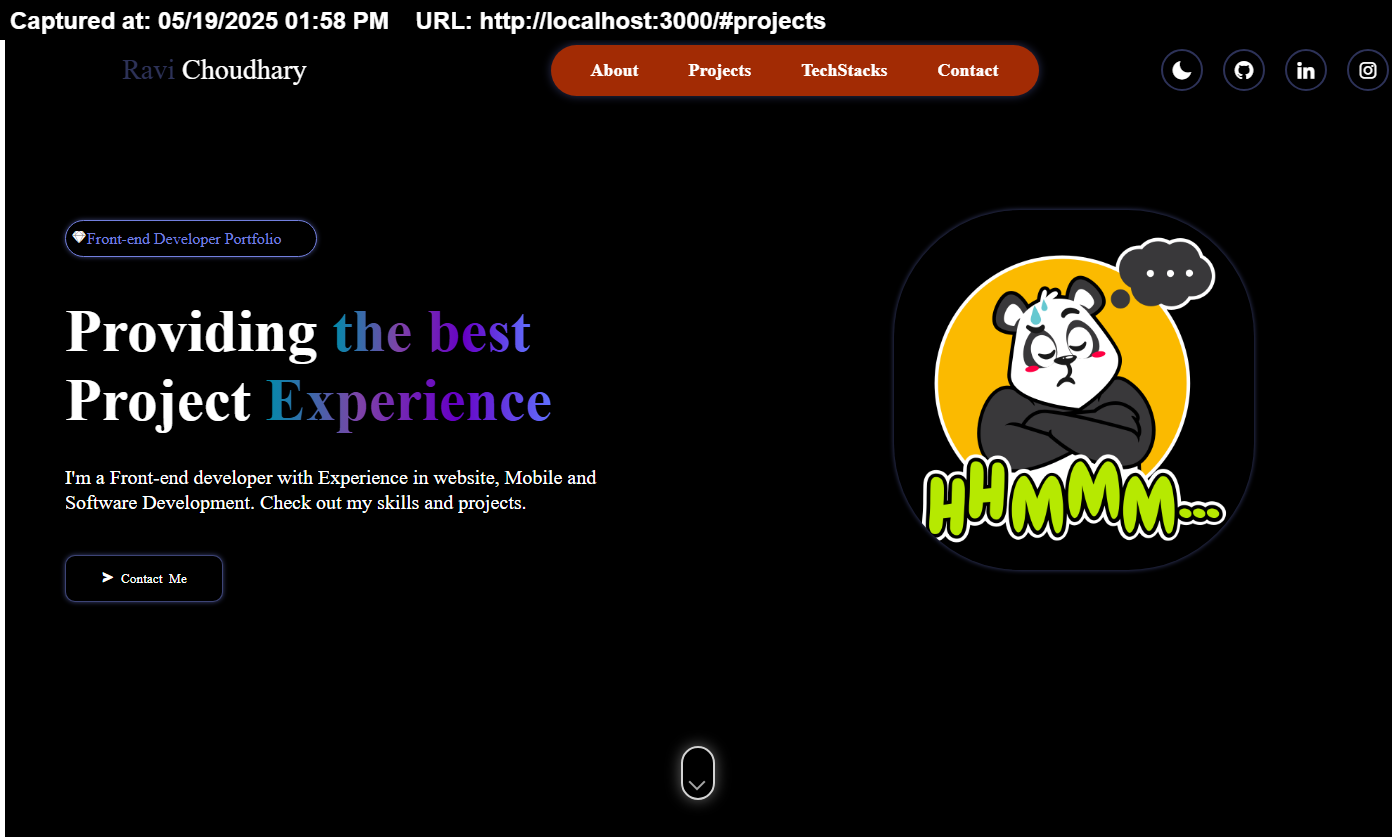
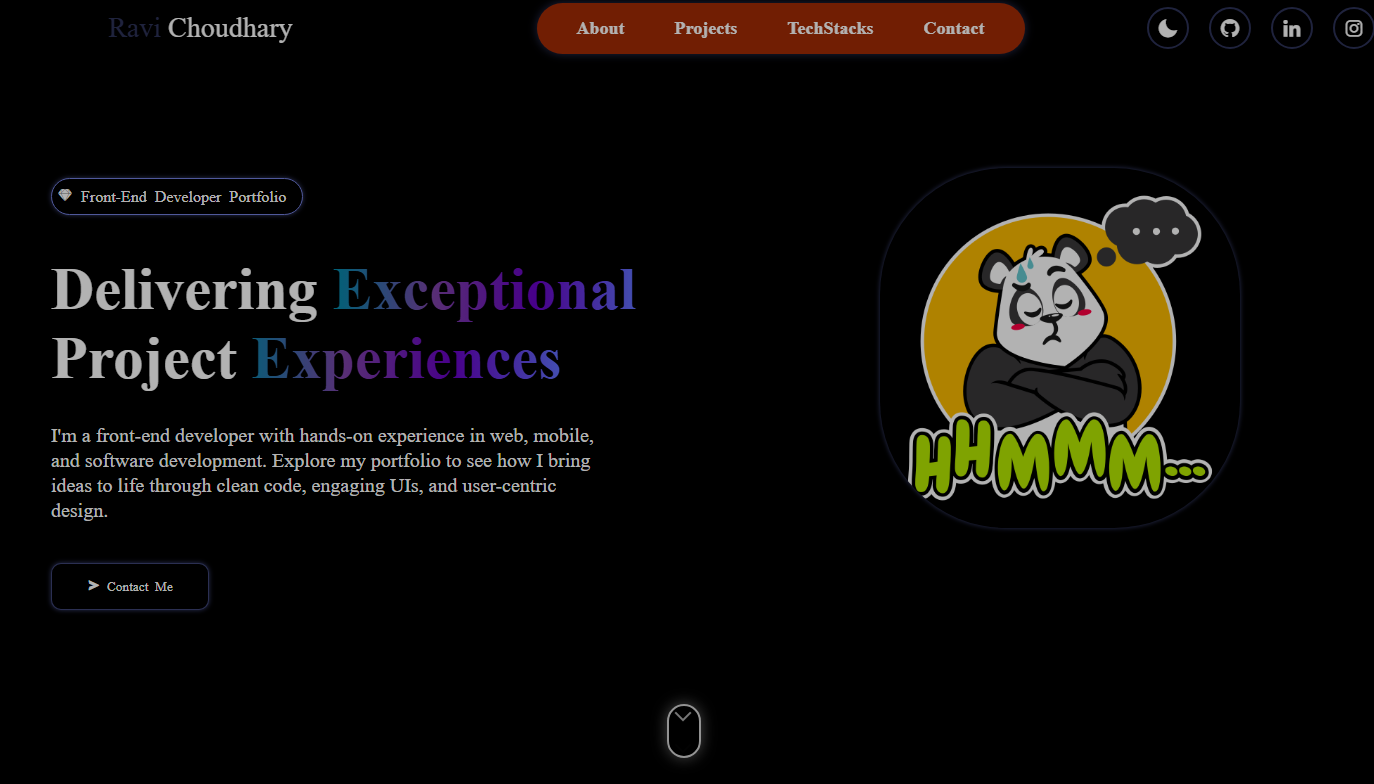
Update Home section

diff --git a/src/pages/Home.jsx b/src/pages/Home.jsx
@@ -1,27 +1,40 @@
-import '../styles/Home.css'
-import thinkingBubble from '../assets/thinking-bubble.png';
-import 'boxicons/css/boxicons.min.css';
+import "../styles/Home.css";
+import thinkingBubble from "../assets/thinking-bubble.png";
+import "boxicons/css/boxicons.min.css";
 
-function Home(){
-    return(
-        <div id="home">
-            <div className="info">
-               <div className="info-title">
-                 <i className='bx bxl-sketch'></i> 
-                 Front-end Developer Portfolio
-               </div>
-               <h1>Providing <span className="gradient">the best</span> Project <span className="gradient">Experience</span></h1>
-               <p>I'm a Front-end developer with Experience in website, Mobile and Software Development. Check out my skills and projects. </p>
-               <button><i className='bx bxs-send'> Contact Me</i></button>
-            </div>
-            <div className="info-box">
-                <img src={thinkingBubble} alt="Thinking Bubble" />
-            </div>
-            <div className="scroll-down">
-
-            </div>
+function Home() {
+  return (
+    <div id="home">
+      <div className="info">
+        <div className="info-title">
+          <i className="bx bxl-sketch"> Front-End Developer Portfolio</i>
         </div>
-    )
-};
+
+        <h1>
+          Delivering <span className="gradient">Exceptional</span> Project
+          <span className="gradient"> Experiences</span>
+        </h1>
+
+        <p>
+          I'm a front-end developer with hands-on experience in web, mobile, and
+          software development. Explore my portfolio to see how I bring ideas to
+          life through clean code, engaging UIs, and user-centric design.
+        </p>
+
+        <button>
+          <i className="bx bxs-send"> Contact Me</i>
+        </button>
+      </div>
+
+      <div className="info-box">
+        <img src={thinkingBubble} alt="Thinking Bubble" />
+      </div>
+
+      <div className="scroll-down">
+       
+      </div>
+    </div>
+  );
+}
 
 export default Home;
